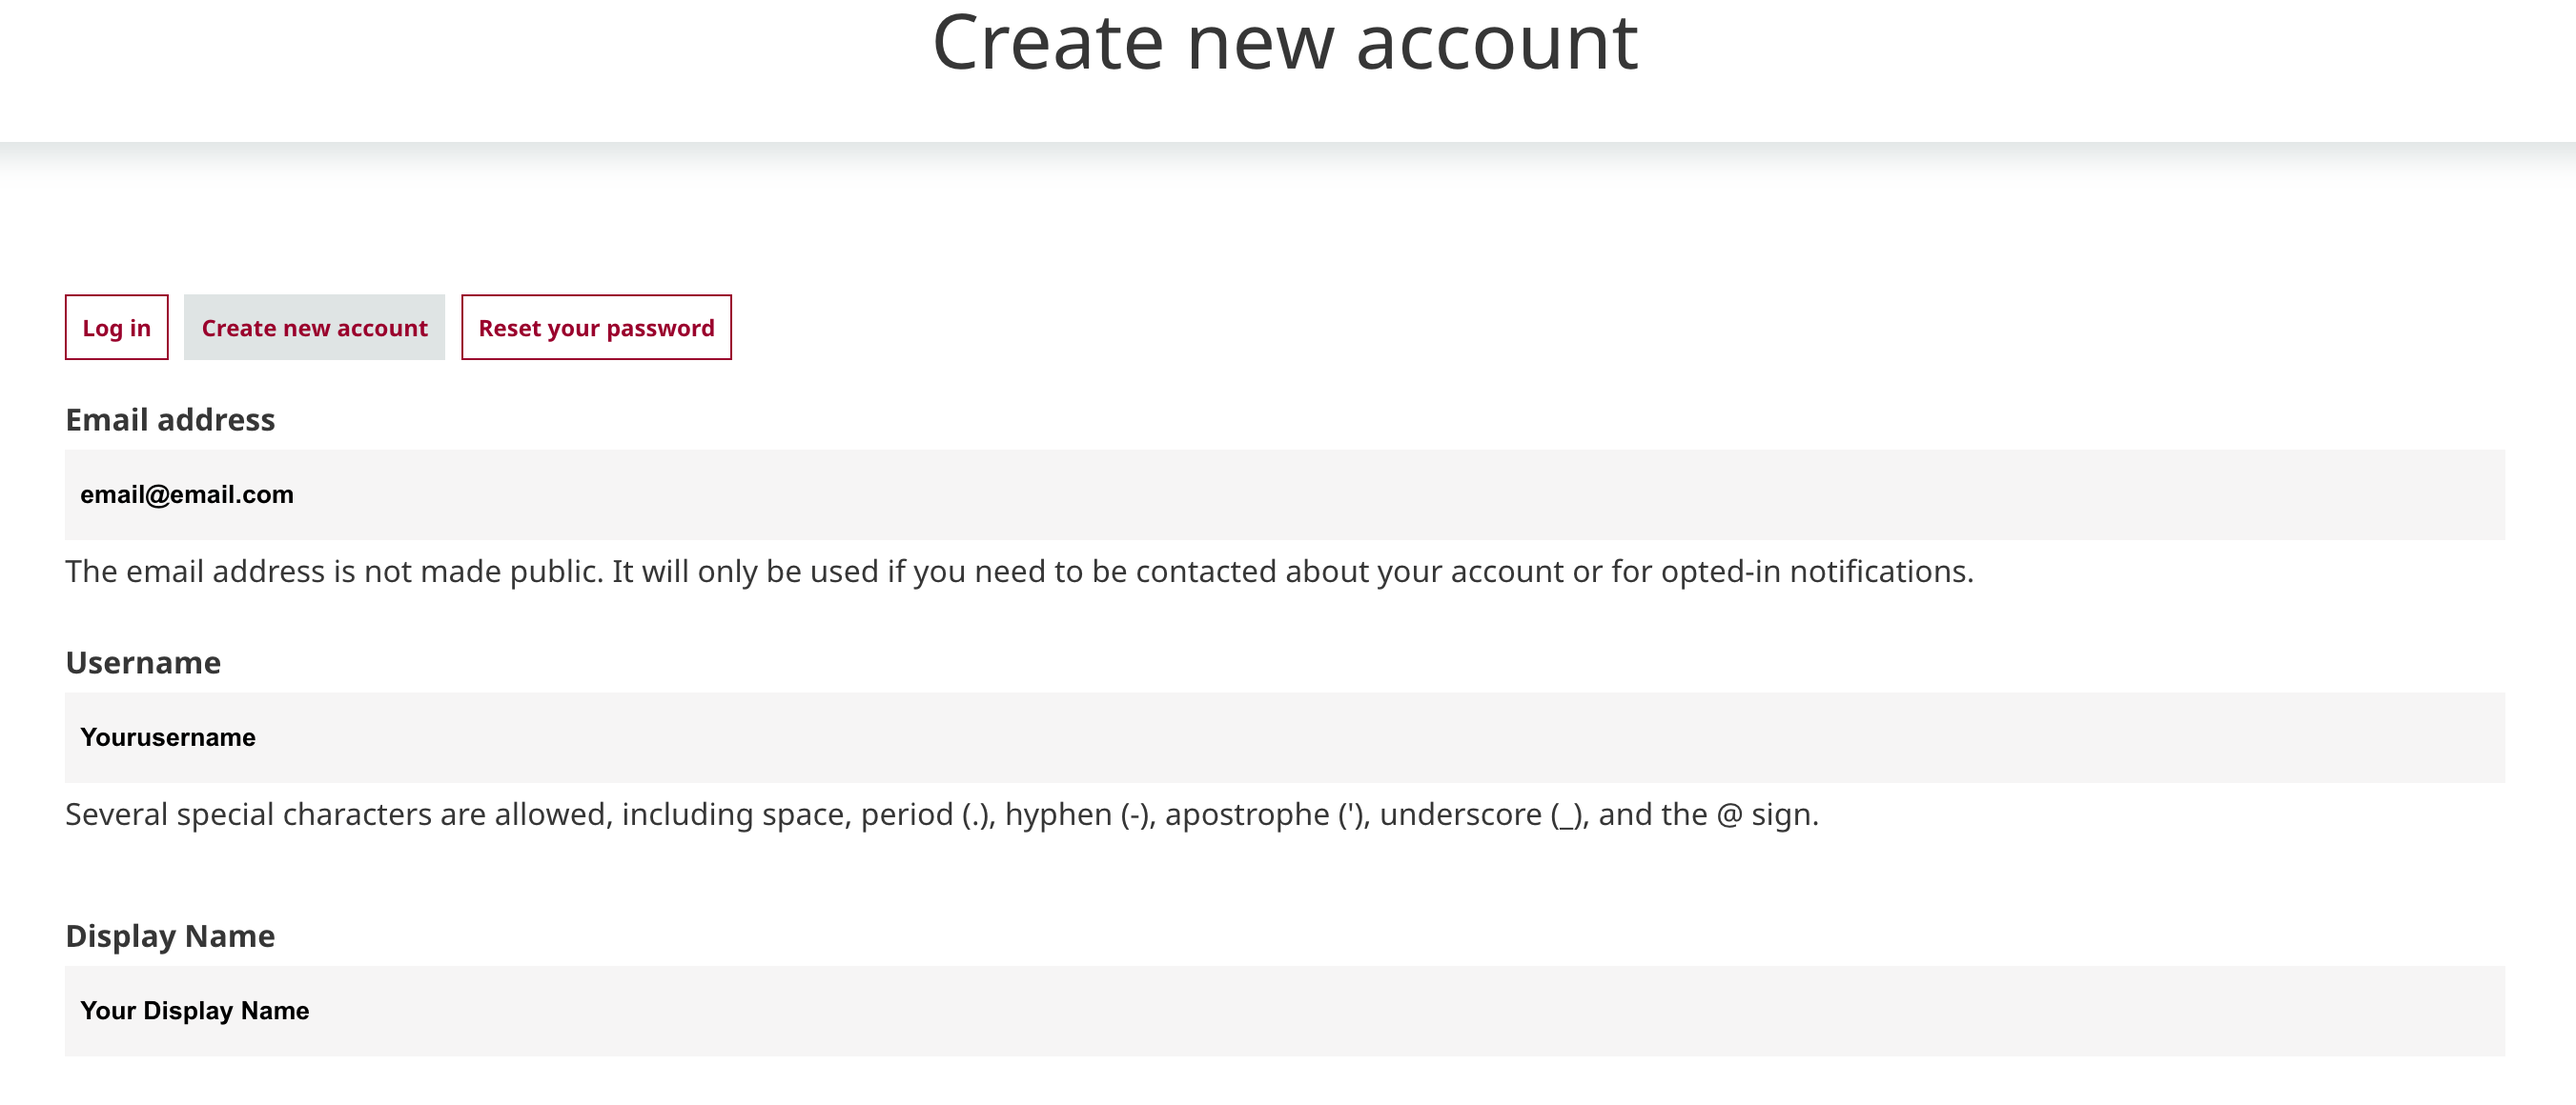
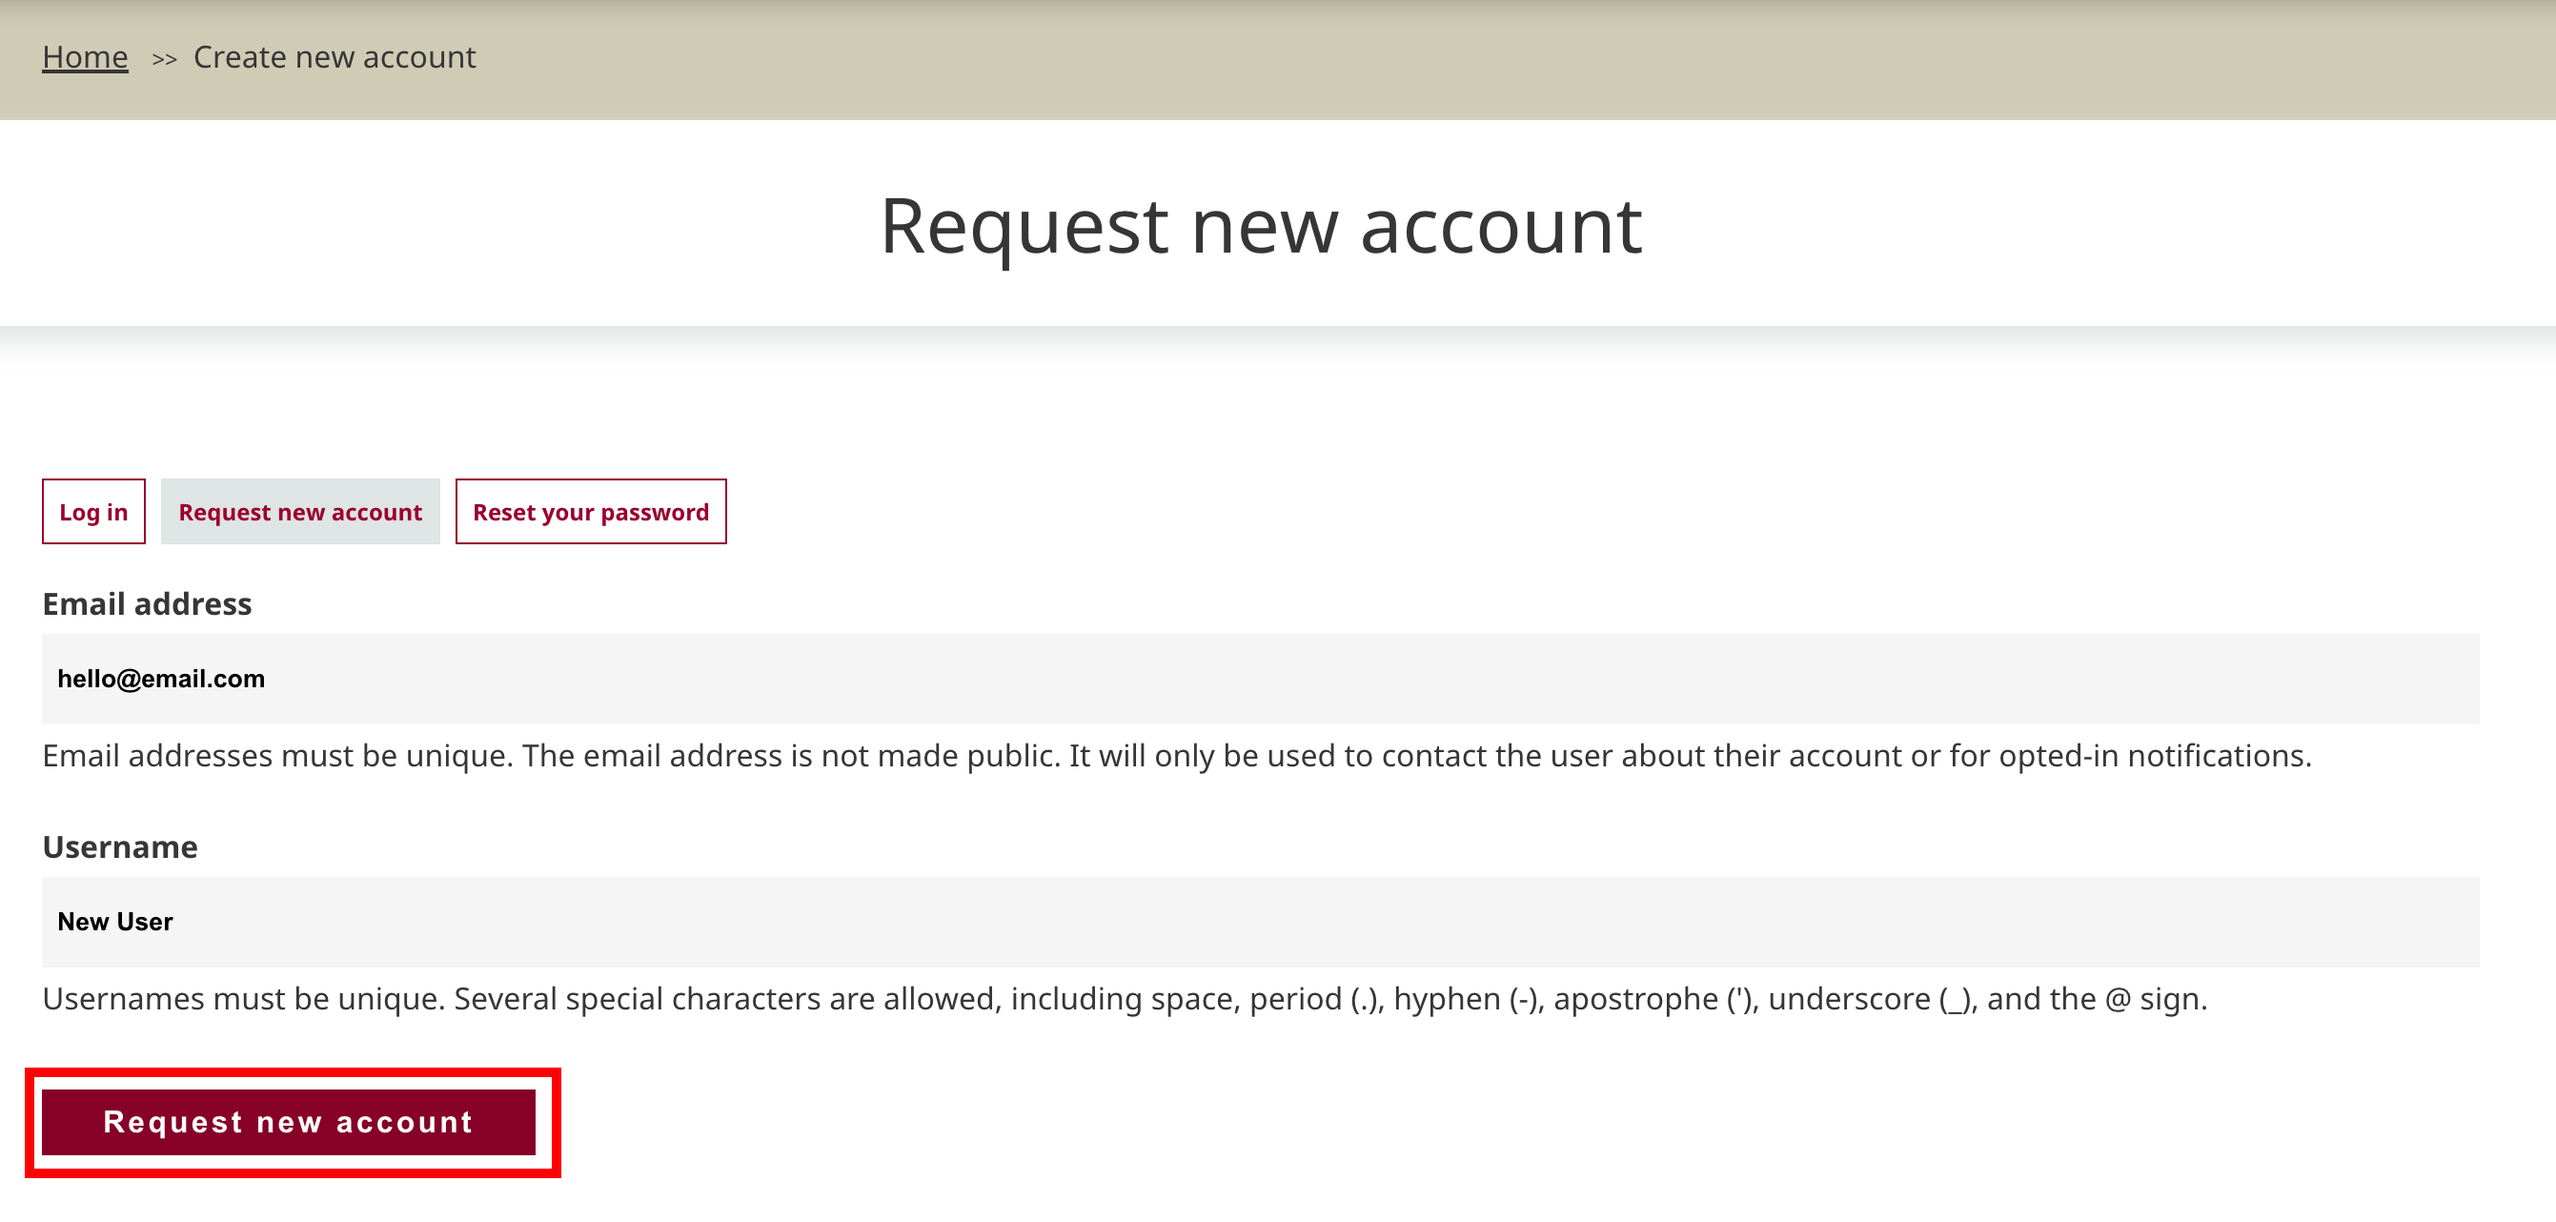
Screenshot updates
Screenshot and minimal text updates

diff --git a/docs/users/request-an-account.md b/docs/users/request-an-account.md
@@ -19,10 +19,10 @@ As a visitor to a Mukurtu site, you may be allowed to create an account yourself
 
 3) A registration form will open. Enter your email address and desired username.
 
-4) Enter an optional display name. This will display in comments on content, and may be useful if your usename does not easily identify you and you would like to be identified on the site.
+4) When you are finished, select "Request new account".
 
 ![The email address, username and display name fields filled out](../_embeds/request-account-03.png)
 
-8) When you are finished, select "Create new account". The home page will reload with a success message. If the site allows you to create an account without administrative approval, you will be able to log in immediately. If approval is required, your account will be blocked until it is approved and set to active. 
+5) The form will reload with a success message. If the site allows you to create an account without administrative approval, you will be able to log in immediately. If approval is required, your account will be blocked until it is approved and set to active. 
 
 ![The home page with a success message displayed](../_embeds/request-account-05.png)
